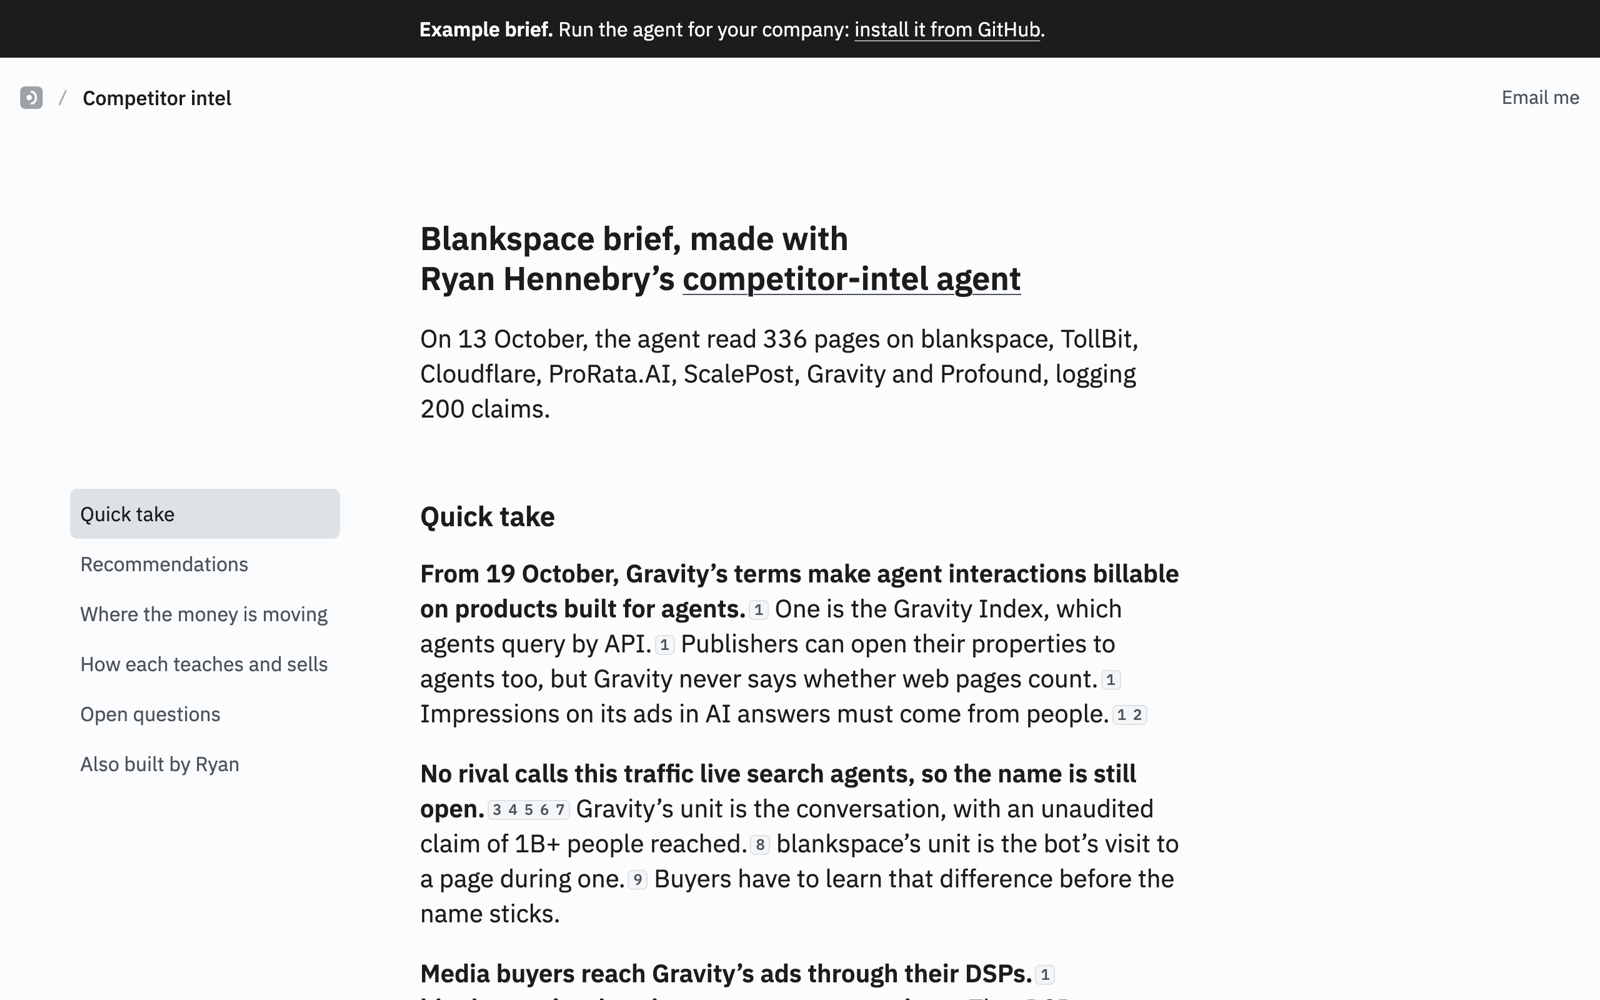
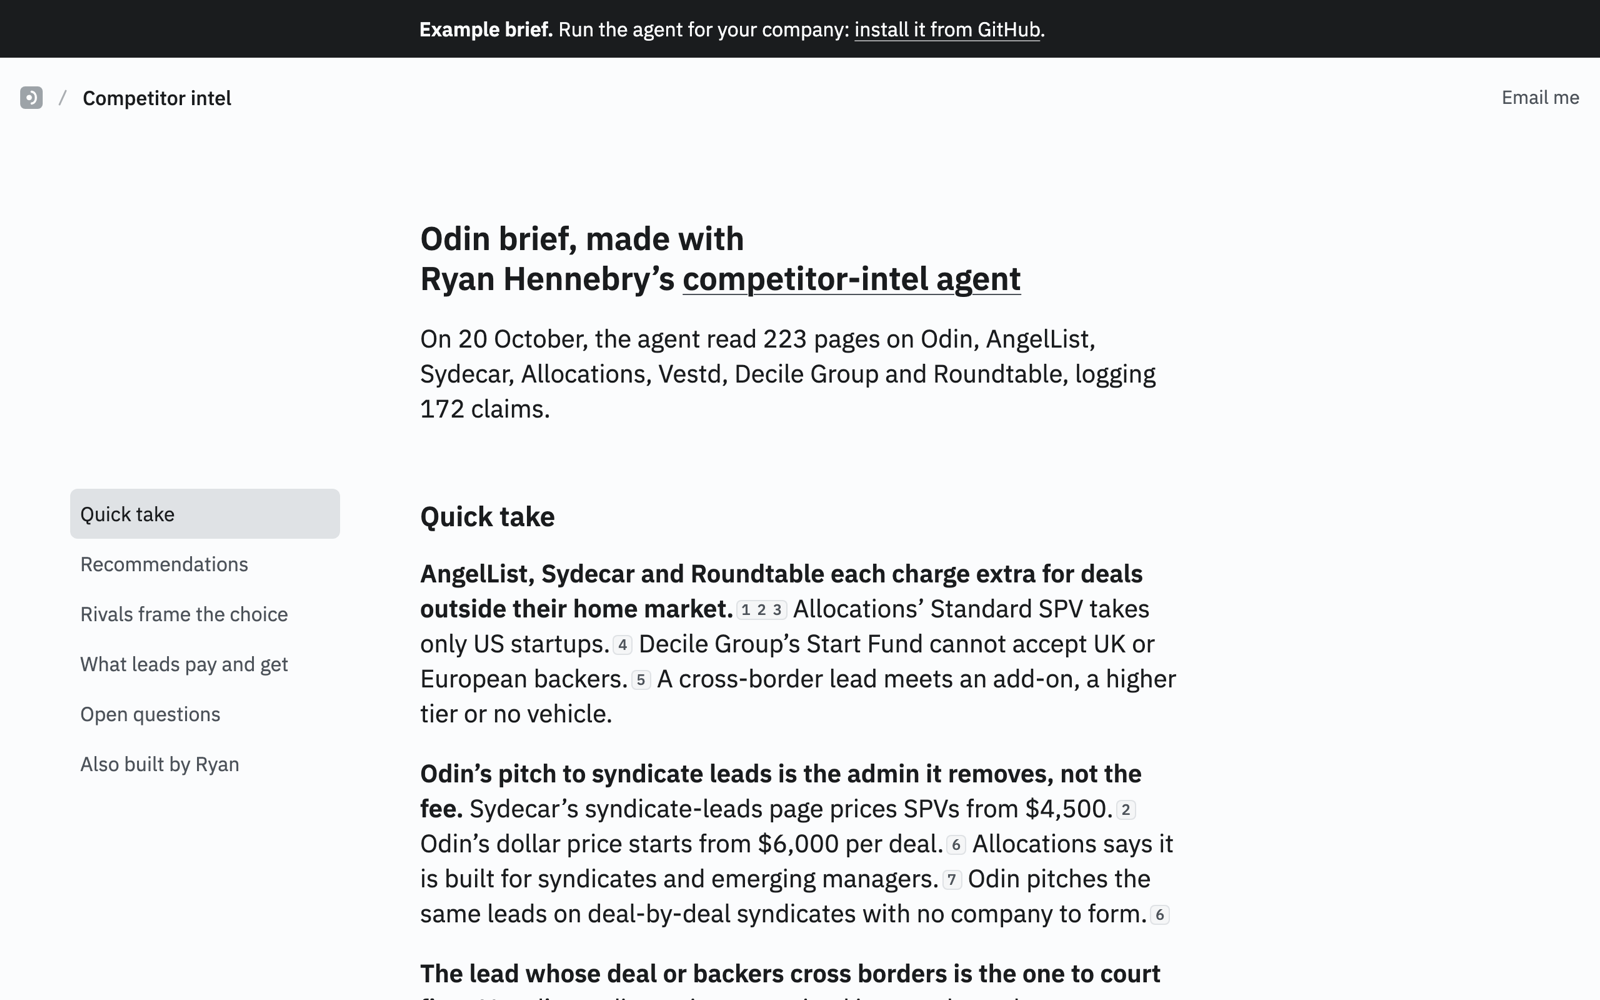
README: the example GIF and hero show the Odin brief; section names generic

diff --git a/README.md b/README.md
@@ -4,14 +4,14 @@ It researches a company and its rivals, and publishes a one-page brief where eve
 
 **Example output: [ryanhennebry.xyz/competitor-intel-agent](https://ryanhennebry.xyz/competitor-intel-agent/)**
 
-[![The example brief, scrolling from the quick take through the recommendations, market map and comparison table](docs/brief-scroll.gif)](https://ryanhennebry.xyz/competitor-intel-agent/)
+[![The example brief, scrolling from the quick take and its market map through the recommendations and comparison table](docs/brief-scroll.gif)](https://ryanhennebry.xyz/competitor-intel-agent/)
 
 ## What the brief contains
 
 - **Quick take**: three findings the company doesn't already know, each one sourced.
 - **Recommendations**: what to do next quarter, each with a next step.
-- **Where the money is moving**: what each rival changed recently, or what it has stayed quiet about.
-- **How each teaches and sells**: a comparison table of terms, pricing and positioning, with an "unknown" wherever a rival's own site leaves the point open.
+- **What rivals changed**: what each rival changed recently, or what it has stayed quiet about.
+- **Comparison table**: terms, pricing and positioning side by side, with an "unknown" wherever a rival's own site leaves the point open.
 - **Open questions**: what the evidence couldn't settle.
 
 Each claim carries a source chip. Hover or tap it to see the evidence and the page it came from. A page that blocked the fetch is labelled as blocked, never guessed at.
